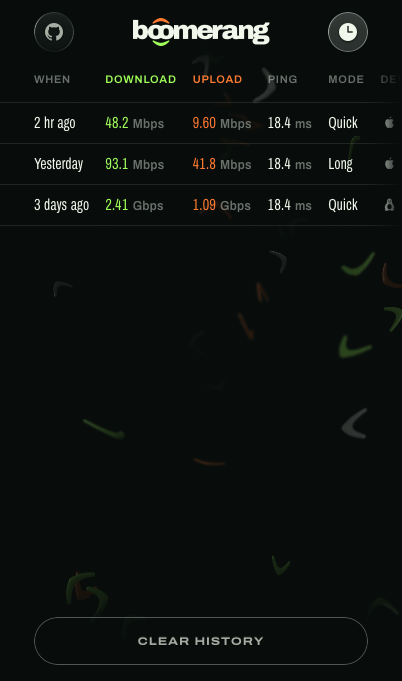
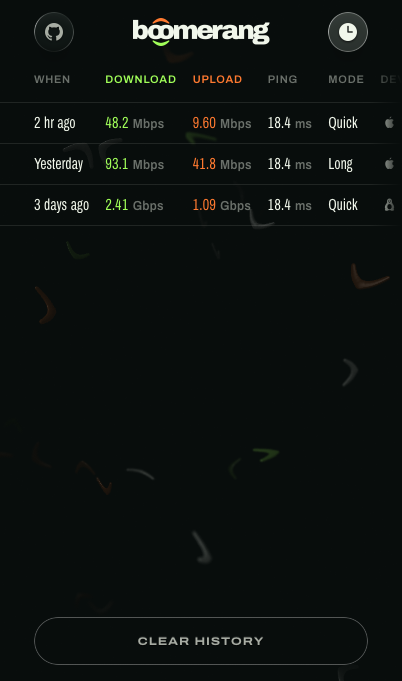
fix: quiet the demo note until a test runs, and make the small keys compact
The bar says just Simulated demo, on one line, muted until the demo
runs a test and lit while it does. Both keys show on every screen: on a
phone Self-host is its Docker icon in a round key. The bar's keys and
History's Load more and Clear history are compact, 32px tall; on a phone
History's keep the bottom key's place and size.

diff --git a/site/routes/+page.svelte b/site/routes/+page.svelte
@@ -9,7 +9,7 @@
   import '../app.css';
   import { onMount } from 'svelte';
   import { installIcons } from '../../src/lib/ui/logo';
-  import { KEY_LABEL, VALUE } from '../../src/lib/ui/classes';
+  import { KEY_LABEL } from '../../src/lib/ui/classes';
 
   const SITE = 'https://boomerang.fernando.is';
   const GUIDE = 'https://github.com/fmaclen/boomerang/blob/master/docs/self-hosting.md';
@@ -37,13 +37,29 @@
     }
   }
 
+  // The note stays quiet until the demo runs a test. The frame is on this
+  // origin, so the page reads the demo's bottom key, whose data-screen is
+  // `run` from the press of Start until New test.
+  let running = $state(false);
+  let frame: HTMLIFrameElement;
+  function watch(): void {
+    const doc = frame.contentDocument;
+    if (!doc?.URL.includes('/demo')) return;
+    const read = () => (running = doc.getElementById('dock')?.dataset.screen === 'run');
+    new MutationObserver(read).observe(doc.documentElement, { subtree: true, attributes: true, attributeFilter: ['data-screen'] });
+    read();
+  }
+
   onMount(() => {
     installIcons();
     latestRelease().then((found) => (release = found));
+    // The frame may have loaded before this script did.
+    frame.addEventListener('load', watch);
+    watch();
   });
 
-  /** A secondary key, as the app draws Stop and Clear history: hollow, an even hairline round the label. */
-  const KEY = 'glass hollow inline-flex h-10 items-center gap-2 px-5 sm:px-6 text-ink-2 transition-colors fine:hover:text-ink';
+  /** A compact secondary key: hollow, an even hairline round the label, as the app draws Clear history. */
+  const KEY = 'glass hollow inline-flex h-8 items-center gap-2 px-4.5 text-ink-2 transition-colors fine:hover:text-ink';
   /** Trims a label to its capitals, so it sits on the middle of its key the way the app's labels do. */
   const TRIM = '[text-box:trim-both_cap_alphabetic]';
 </script>
@@ -66,31 +82,26 @@
 </svelte:head>
 
 <div class="flex h-dvh flex-col">
-  <!-- The bar is the app's own chrome: the note as a bright key-face label beside a muted
-       value, and the links as its secondary keys. -->
-  <header class="flex h-16 flex-none items-center justify-between gap-4 border-b border-ink/8 px-4 sm:px-6">
-    <p class="m-0 flex min-w-0 items-center gap-3" data-testid="demo-note">
-      <span class="size-2 flex-none rounded-full bg-lime shadow-[0_0_10px_rgba(161,255,89,0.8)]" aria-hidden="true"></span>
-      <!-- On a phone it stacks on two lines, to leave the keys their room. -->
-      <span class="flex-none whitespace-nowrap text-ink max-sm:w-min max-sm:whitespace-normal max-sm:leading-[1.5] {TRIM} {KEY_LABEL}"
-        >Simulated demo</span
-      >
-      <span class="ml-1 hidden truncate md:block {TRIM} {VALUE}"><span class="text-ink-3">Not a measurement of your connection</span></span>
+  <!-- The bar is the app's own chrome: the note in a key's lettering, muted until a test runs, and the links as compact secondary keys. -->
+  <header class="flex h-14 flex-none items-center justify-between gap-4 border-b border-ink/8 px-4 sm:px-6">
+    <p class="m-0 flex min-w-0 items-center gap-3" data-testid="demo-note" data-running={running}>
+      <span
+        class="size-2 flex-none rounded-full transition-[background-color,box-shadow] duration-500 {running
+          ? 'bg-lime shadow-[0_0_10px_rgba(161,255,89,0.8)]'
+          : 'bg-ink-3 shadow-none'}"
+        aria-hidden="true"
+      ></span>
+      <span class="whitespace-nowrap transition-colors duration-500 {running ? 'text-ink' : 'text-ink-3'} {TRIM} {KEY_LABEL}">Simulated demo</span>
     </p>
     <nav class="flex flex-none items-center gap-2" aria-label="Boomerang">
-      <a class={KEY} href={GUIDE}>
+      <!-- On a phone, Self-host is the Docker icon alone in a round key, so both keys fit beside the note. -->
+      <a class="{KEY} max-sm:w-8 max-sm:justify-center max-sm:px-0" href={GUIDE} aria-label="Self-host with Docker">
         <svg class="size-4 flex-none drop-shadow-[0_1px_1px_rgba(0,0,0,0.7)]" viewBox="0 0 24 24" fill="currentColor" aria-hidden="true"
           ><path d="M13.98 11.08h2.12a.19.19 0 0 0 .19-.19V9.01a.19.19 0 0 0-.19-.19h-2.12a.18.18 0 0 0-.18.18v1.9c0 .1.08.18.18.18m-2.95-5.43h2.12a.19.19 0 0 0 .18-.19V3.57a.19.19 0 0 0-.18-.18h-2.12a.18.18 0 0 0-.19.18v1.9c0 .1.09.18.19.18m0 2.71h2.12a.19.19 0 0 0 .18-.18V6.29a.19.19 0 0 0-.18-.18h-2.12a.18.18 0 0 0-.19.18v1.89c0 .1.09.18.19.18m-2.93 0h2.12a.19.19 0 0 0 .18-.18V6.29a.18.18 0 0 0-.18-.18H8.1a.18.18 0 0 0-.18.18v1.89c0 .1.08.18.18.18m-2.96 0h2.11a.19.19 0 0 0 .19-.18V6.29a.18.18 0 0 0-.19-.18H5.14a.19.19 0 0 0-.19.18v1.89c0 .1.08.18.19.18m5.89 2.72h2.12a.19.19 0 0 0 .18-.19V9.01a.19.19 0 0 0-.18-.19h-2.12a.18.18 0 0 0-.19.18v1.9c0 .1.09.18.19.18m-2.93 0h2.12a.18.18 0 0 0 .18-.19V9.01a.18.18 0 0 0-.18-.19H8.1a.18.18 0 0 0-.18.19v1.89c0 .1.08.19.18.19m-2.96 0h2.11a.18.18 0 0 0 .19-.19V9.01a.18.18 0 0 0-.18-.19H5.14a.19.19 0 0 0-.19.19v1.89c0 .1.08.19.19.19m-2.92 0h2.12a.18.18 0 0 0 .18-.19V9.01a.18.18 0 0 0-.18-.19H2.22a.18.18 0 0 0-.19.19v1.89c0 .1.08.19.19.19m21.54-1.19c-.06-.05-.67-.51-1.95-.51-.34 0-.68.03-1.01.09a3.77 3.77 0 0 0-1.72-2.57l-.34-.2-.23.33a4.6 4.6 0 0 0-.6 1.43c-.24.93-.1 1.8.36 2.55-.56.31-1.45.38-1.63.39H.75a.75.75 0 0 0-.75.75 11.38 11.38 0 0 0 .7 4.06 6.03 6.03 0 0 0 2.4 3.12c1.18.73 3.1 1.14 5.28 1.14.98 0 1.96-.09 2.93-.27a12.1 12.1 0 0 0 3.82-1.39 10.5 10.5 0 0 0 2.6-2.13c1.25-1.42 2-3 2.55-4.4h.22c1.37 0 2.21-.55 2.68-1.01.31-.3.55-.65.71-1.05l.1-.29Z" /></svg
         >
-        <span class="{TRIM} {KEY_LABEL}">Self-host</span>
+        <span class="hidden sm:inline {TRIM} {KEY_LABEL}">Self-host</span>
       </a>
-      <!-- Until a release exists, a phone has no room for the releases link beside Self-host. -->
-      <a
-        class="{KEY} {release ? '' : 'max-sm:hidden'}"
-        href={release?.url ?? RELEASES}
-        data-testid="release"
-        data-release={release ? 'shown' : 'hidden'}
-      >
+      <a class={KEY} href={release?.url ?? RELEASES} data-testid="release" data-release={release ? 'shown' : 'hidden'}>
         {#if release}
           <span class="text-ink {TRIM} {KEY_LABEL}" data-testid="release-tag">{release.tag}</span>
         {:else}
@@ -99,5 +110,5 @@
       </a>
     </nav>
   </header>
-  <iframe class="block min-h-0 w-full flex-auto border-0 bg-ground" title="Boomerang demo" src="/demo/"></iframe>
+  <iframe class="block min-h-0 w-full flex-auto border-0 bg-ground" title="Boomerang demo" src="/demo/" bind:this={frame}></iframe>
 </div>

diff --git a/src/lib/ui/HistoryLayer.svelte b/src/lib/ui/HistoryLayer.svelte
@@ -36,7 +36,7 @@
   const LAST = 'pr-(--inset)';
   /** The list's keys: Stop's height on a phone, where they stack. */
   const CK =
-    'grid h-10 place-items-center px-6 narrow:h-12 [transition:opacity_200ms_var(--ease-out),visibility_0s,transform_160ms_var(--ease-out),background-color_160ms_ease,color_160ms_ease,--lift_200ms_ease]';
+    'grid h-8 place-items-center px-4.5 narrow:h-12 [transition:opacity_200ms_var(--ease-out),visibility_0s,transform_160ms_var(--ease-out),background-color_160ms_ease,color_160ms_ease,--lift_200ms_ease]';
   const CK_LABEL = `${KEY_LABEL} [text-box:trim-both_cap_alphabetic]`;
 
   const rows = $derived(
@@ -80,7 +80,7 @@
          label at both ends; a phone runs the table edge to edge, smaller,
          with its text on the page's column at both ends. -->
     <div
-      class="hist-table grid w-max min-w-full grid-cols-[repeat(6,max-content)] justify-between gap-x-(--gap) [--gap:24px] [--inset:24px] [--pad:12px] [mask:linear-gradient(to_right,#000_calc(var(--edge,100%)-var(--fade-r,0px)),transparent_var(--edge,100%))] narrow:[--gap:16px] narrow:[--inset:var(--side)] narrow:[--pad:10px]"
+      class="hist-table grid w-max min-w-full grid-cols-[repeat(6,max-content)] justify-between gap-x-(--gap) [--gap:24px] [--inset:18px] [--pad:12px] [mask:linear-gradient(to_right,#000_calc(var(--edge,100%)-var(--fade-r,0px)),transparent_var(--edge,100%))] narrow:[--gap:16px] narrow:[--inset:var(--side)] narrow:[--pad:10px]"
     >
       <!-- The heads stay put as the rows scroll under them, over the page's ground once they do. A phone draws them a size under the units, with more room below. -->
       <div

diff --git a/tests/site.spec.ts b/tests/site.spec.ts
@@ -110,12 +110,23 @@ for (const answer of [{}, { status: 404 }]) {
     await page.setViewportSize(WIDTHS.phone);
     await page.goto('/');
     await answered;
-    // Until there is a release, a phone shows Self-host alone.
-    if (answer.status) await expect(page.getByTestId('release')).toBeHidden();
-    else await expect(page.getByTestId('release-tag')).toBeVisible();
+    await expect(page.getByRole('link', { name: 'Self-host with Docker' })).toBeVisible();
+    await expect(page.getByTestId(answer.status ? 'release' : 'release-tag')).toBeVisible();
     const note = await page.getByTestId('demo-note').locator('span').nth(1).boundingBox();
     const keys = await page.locator('header nav').boundingBox();
     expect(note!.x + note!.width + 12).toBeLessThanOrEqual(keys!.x);
     expect(keys!.x + keys!.width).toBeLessThanOrEqual(WIDTHS.phone.width);
   });
 }
+
+test('the demo note stays muted until a test runs, and quiets again after it', async ({ page }) => {
+  await offline(page);
+  await page.goto('/');
+  const note = page.getByTestId('demo-note');
+  const demo = page.frameLocator('iframe[title="Boomerang demo"]');
+  await demo.getByTestId('start').click();
+  await expect(note).toHaveAttribute('data-running', 'true');
+  await expect(demo.getByTestId('result')).toBeVisible({ timeout: 20_000 });
+  await demo.getByTestId('new-run').click();
+  await expect(note).toHaveAttribute('data-running', 'false');
+});
